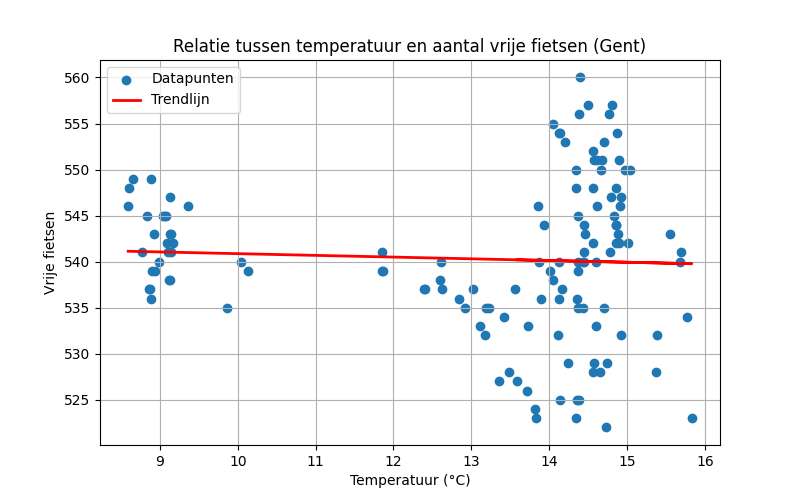
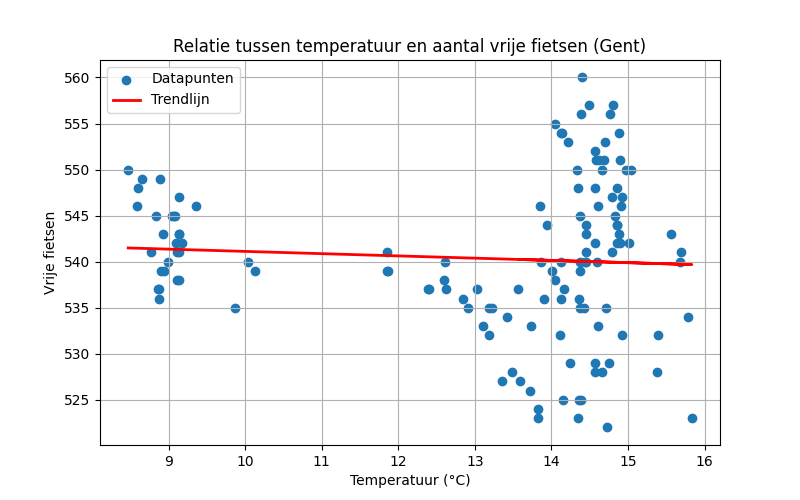
Automatische update 2025-11-16 18:30:11

diff --git a/reports/report.md b/reports/report.md
@@ -1,16 +1,16 @@
 # Data Workflow Rapport
 
-**Gegenereerd op:** 2025-11-16 18:15:11.084061
+**Gegenereerd op:** 2025-11-16 18:30:10.912351
 
 ## Grafiek: Vrije fietsen vs Temperatuur
 ![Fietsen vs Temp](fiets_vs_temp.png)
 
 ## Basisstatistieken
-- Gemiddelde temperatuur: 13.09 °C
+- Gemiddelde temperatuur: 13.06 °C
 - Gemiddeld aantal vrije fietsen: 540
 - Gemiddeld aantal fietsen overdag (07-19u): 539
 - Gemiddeld aantal fietsen ’s nachts (19-07u): 542
-- Correlatie: -0.05
+- Correlatie: -0.07
 
 ## Vrije fietsen per weekdag
 
@@ -22,7 +22,7 @@
 | Donderdag | 525 | 550 | 535 |
 | Vrijdag | 535 | 557 | 545 |
 | Zaterdag | 522 | 560 | 537 |
-| Zondag | 535 | 549 | 542 |
+| Zondag | 535 | 550 | 542 |
 
 ---
 ## Grafiek: Vrije fietsen per uur
